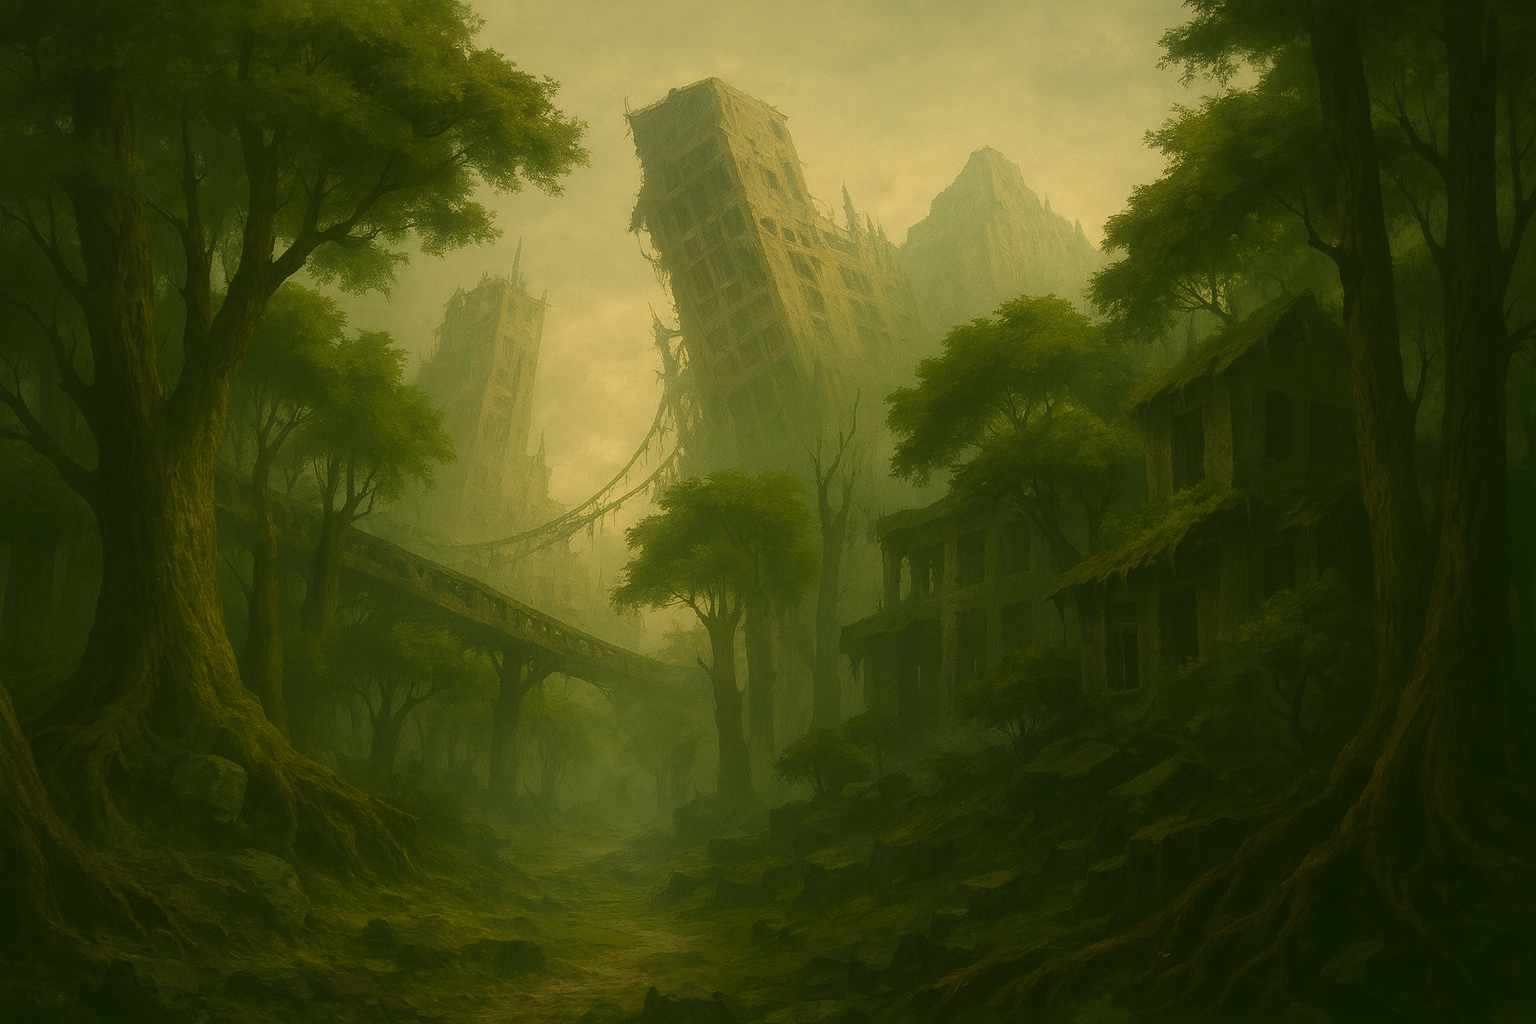
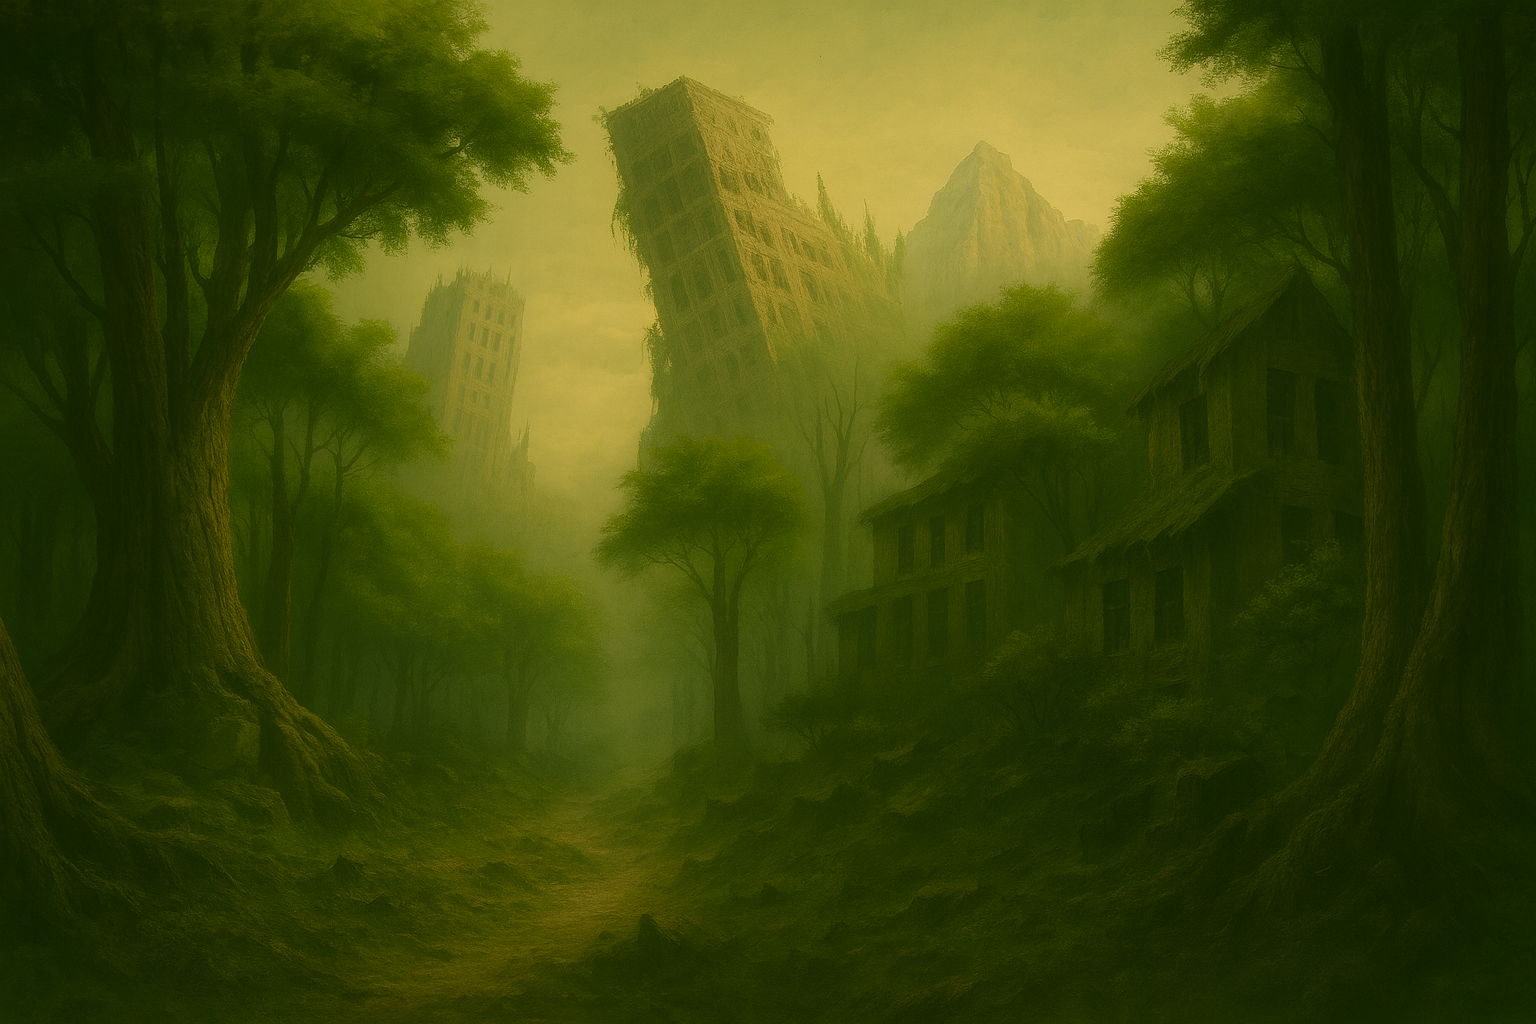
chore: add map_images_to_glyphs.py and update background image

diff --git a/tools/map_images_to_glyphs.py b/tools/map_images_to_glyphs.py
@@ -1,0 +1,106 @@
+import json
+from pathlib import Path
+import re
+
+ROOT = Path('d:/saoriverse-console')
+GO = ROOT / 'velinor' / 'markdowngameinstructions' / 'glyphs' / 'Glyph_Organizer.json'
+IMAGE_DIRS = [
+    ROOT / 'velinor' / 'glyph_images',
+    ROOT / 'velinor' / 'npcs',
+    ROOT / 'velinor' / 'backgrounds',
+    ROOT / 'velinor' / 'overlays',
+    ROOT / 'velinor-web' / 'public' / 'velinor' / 'backgrounds',
+    ROOT / 'velinor-web' / 'public' / 'velinor' / 'overlays',
+]
+
+def gather_images():
+    images = []
+    for d in IMAGE_DIRS:
+        if not d.exists():
+            continue
+        for p in d.rglob('*'):
+            if p.is_file() and p.suffix.lower() in ('.png', '.jpg', '.jpeg', '.svg'):
+                # store relative path from workspace root
+                rel = p.relative_to(ROOT)
+                images.append(str(rel).replace('\\','/'))
+    return images
+
+
+def tokens(s):
+    s = re.sub(r"[^0-9a-zA-Z]+", ' ', s or '').lower()
+    return [t for t in s.split() if t]
+
+
+def match_images_for_glyph(glyph_name, images):
+    tks = tokens(glyph_name)
+    matches = []
+    for img in images:
+        n = img.lower()
+        score = sum(1 for t in tks if t in n)
+        if score>0:
+            matches.append((score, img))
+    matches.sort(reverse=True)
+    # return top 3 unique
+    return [m[1] for m in matches[:3]]
+
+
+def match_npc_images(npc_name, images):
+    tks = tokens(npc_name)
+    matches = []
+    for img in images:
+        if not img.startswith('npcs/'):
+            continue
+        n = img.lower()
+        score = sum(1 for t in tks if t in n)
+        if score>0:
+            matches.append((score, img))
+    matches.sort(reverse=True)
+    return [m[1] for m in matches[:5]]
+
+
+def main():
+    images = gather_images()
+    GO_text = GO.read_text(encoding='utf-8')
+    data = json.loads(GO_text)
+    updated = 0
+    for g in data.get('glyphs', []):
+        # ensure npc object exists
+        npc = g.get('npc', {})
+        name = npc.get('name') or g.get('npc', {}).get('name')
+        if name:
+            found = match_npc_images(name, images)
+            if found:
+                # set npc_images if missing or empty
+                if not npc.get('npc_images'):
+                    npc['npc_images'] = found
+                    g['npc'] = npc
+                    updated += 1
+        # glyph image matches
+        glyph_matches = match_images_for_glyph(g.get('glyph_name',''), images)
+        if glyph_matches:
+            if not g.get('glyph_images'):
+                g['glyph_images'] = glyph_matches
+                updated += 1
+        # background_images already often present — ensure they are valid
+        bgs = g.get('npc', {}).get('background_images', []) or g.get('background_images', [])
+        valid_bgs = []
+        for bg in bgs:
+            if bg in images:
+                valid_bgs.append(bg)
+            else:
+                # try find a close match in images containing tokens
+                for img in images:
+                    if any(t in img.lower() for t in tokens(bg)):
+                        valid_bgs.append(img)
+                        break
+        if valid_bgs:
+            # prefer npc.background_images
+            if 'npc' in g:
+                g['npc']['background_images'] = valid_bgs
+            else:
+                g['background_images'] = valid_bgs
+    GO.write_text(json.dumps(data, indent=2, ensure_ascii=False), encoding='utf-8')
+    print('map_images_to_glyphs: updated entries:', updated)
+
+if __name__ == '__main__':
+    main()
